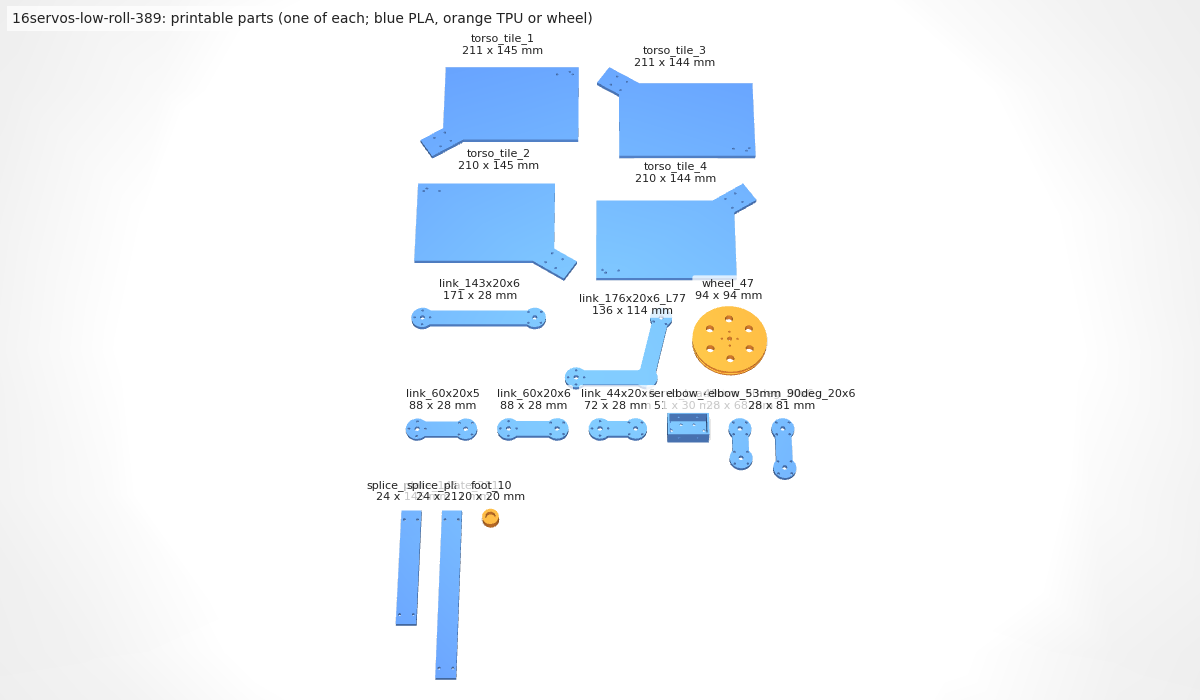
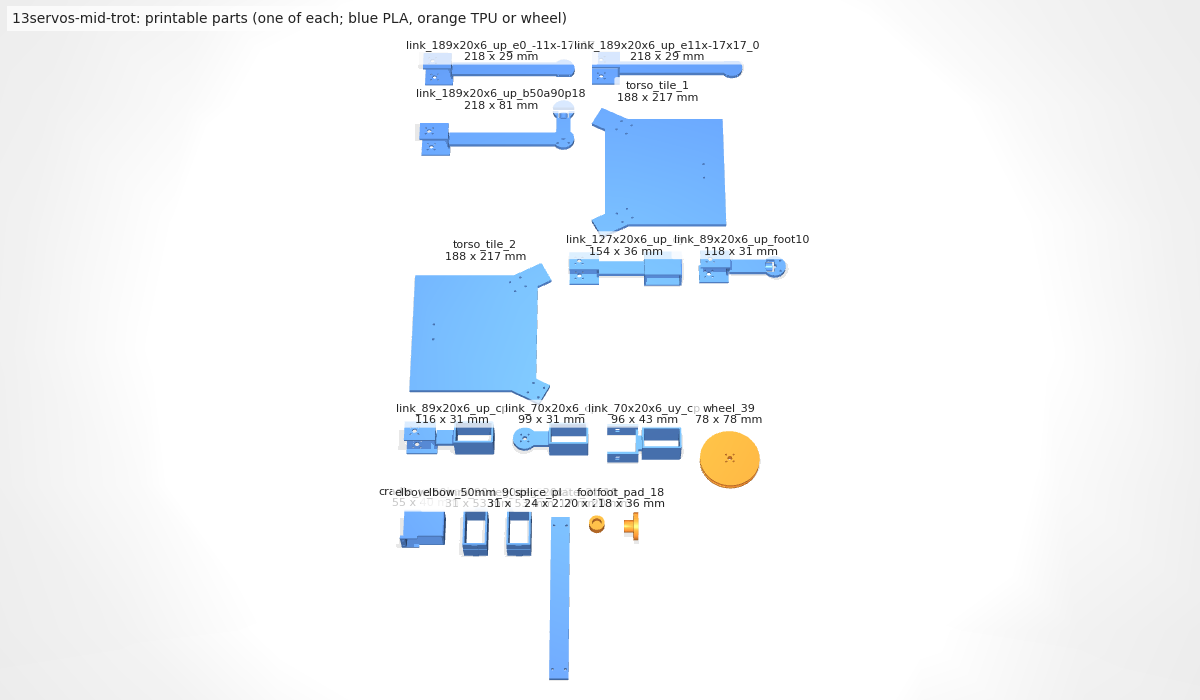
Showcase: polished and pruned long-run robots in the figures and results

Changed region(s): [[0.0617, 0.0, 0.7092, 0.72], [0.3083, 0.69, 0.555, 0.99]]

diff --git a/docs/results.md b/docs/results.md
@@ -1,6 +1,37 @@
 # Results
 
-The showcase archive uses the default `steer` task on the default `terrain`
+## Showcase
+
+The current showcase comes from the long run with 12 V servos, the
+assembly checks and plastic friction. Five CPU islands on Kaggle, one night
+island on a desktop and one GPU island trained on the `steer` task and were
+merged (129 cells, best fitness 0.56). The best robots of each region then
+got a longer controller search (`experiments/polish.py`), lost the parts they
+did not need (`experiments/prune.py`), passed `experiments/validate.py` (mean
+loss between -18% and 5% under varied physics, limit 30%) and
+`tools/check_assembly.py` (no clashes between printed parts or servo bodies):
+
+| Robot | Fitness | Before polishing |
+|---|---|---|
+| 13servos-mid-trot | 0.71 | 0.46 (a roller) |
+| 16servos-mid-roll | 0.70 | 0.56 |
+| 13servos-mid-belly | 0.66 | 0.33 |
+| 6servos-low-trot | 0.53 | 0.36 (7 servos before pruning) |
+| 6servos-low-belly | 0.54 | 0.40 (9 servos before pruning) |
+| 11servos-low-belly | 0.54 | 0.39 |
+
+Polishing changed the gait of two robots: the 13-servo body trotted on four
+legs once its controller had more search. Walking and crawling robots stay
+weak (0.10 to 0.12): their links scrape the floor and their joints stop
+early.
+
+![Evolved body plans](img/robots.png)
+
+![Printable parts of the best robot](img/parts.png)
+
+## Previous steer run
+
+This archive uses the default `steer` task on the default `terrain`
 set (flat, rough, steps and rubble), with two randomised physics variants per
 evaluation (`--preset steer --batches 30`). Three runs of 30 batches with
 different seeds trained as islands on Kaggle and were merged
@@ -56,10 +87,10 @@ from 0.55 at batch 3 to 0.60 at batch 30, and the best walker has stayed at
 ## Steering versus forward only
 
 A control run with the same terrains and variants, 30 batches on the `forward`
-task (`--preset forward`, one CPU run), was compared with the showcase archive
+task (`--preset forward`, one CPU run), was compared with the previous steer archive
 scored under the forward rule:
 
-| | `steer` (showcase) | `forward` (control) |
+| | `steer` (previous run) | `forward` (control) |
 |---|---|---|
 | Evaluations | 403,016 (three islands) | 127,938 |
 | Cells | 116 | 78 |
@@ -68,7 +99,7 @@ scored under the forward rule:
 | Best walker | 0.31 | 0.34 |
 | Best belly crawler | 0.19 | 0.26 |
 
-The showcase had three times the evaluations. Its rollers went further, its
+The steer run had three times the evaluations. Its rollers went further, its
 trotters matched the control and its walkers came close, while also turning
 on command. The control robots cannot turn, and a
 robot you build needs to. Use `--preset forward` when turning on command does
@@ -104,13 +135,9 @@ runs above only roughly:
 | Best rolling robot | 1.27 | 0.95 | 0.91 | 1.01 | 1.03 |
 | Best legged robot | 0.40 | 0.39 | 0.25 | 0.15 | 0.25 |
 
-![Evolved body plans](img/robots.png)
-
 ![MAP-Elites archive](img/archive_map.png)
 
 ![Training progress](img/progress.png)
-
-![Printable parts of the best robot](img/parts.png)
 
 ## What counts as success (honestly)
 

diff --git a/README.md b/README.md
@@ -11,7 +11,7 @@
 Quality-diversity evolution of robot bodies and locomotion controllers, built
 from real parts so the result can be printed and assembled.
 
-![Four evolved robots moving: two rollers, a trotter and a walker](docs/img/gait.gif)
+![Four evolved robots moving: two trotters, a roller and a belly crawler](docs/img/gait.gif)
 
 Every robot is a tree of real modules (Karl Sims and Revolve2 style) driven by
 Feetech STS3215 servos. Bodies are evolved with a MAP-Elites archive laid out by

diff --git a/docs/index.md b/docs/index.md
@@ -5,7 +5,7 @@
 Quality-diversity evolution of robot bodies and locomotion controllers, built
 from real parts so the result can be printed and assembled.
 
-![Four evolved robots moving: two rollers, a trotter and a walker](img/gait.gif)
+![Four evolved robots moving: two trotters, a roller and a belly crawler](img/gait.gif)
 
 Every robot is a tree of real modules (Karl Sims and Revolve2 style): a core
 (a torso plate with a free contour, ESP32, LiPo) with servo joints, spine
